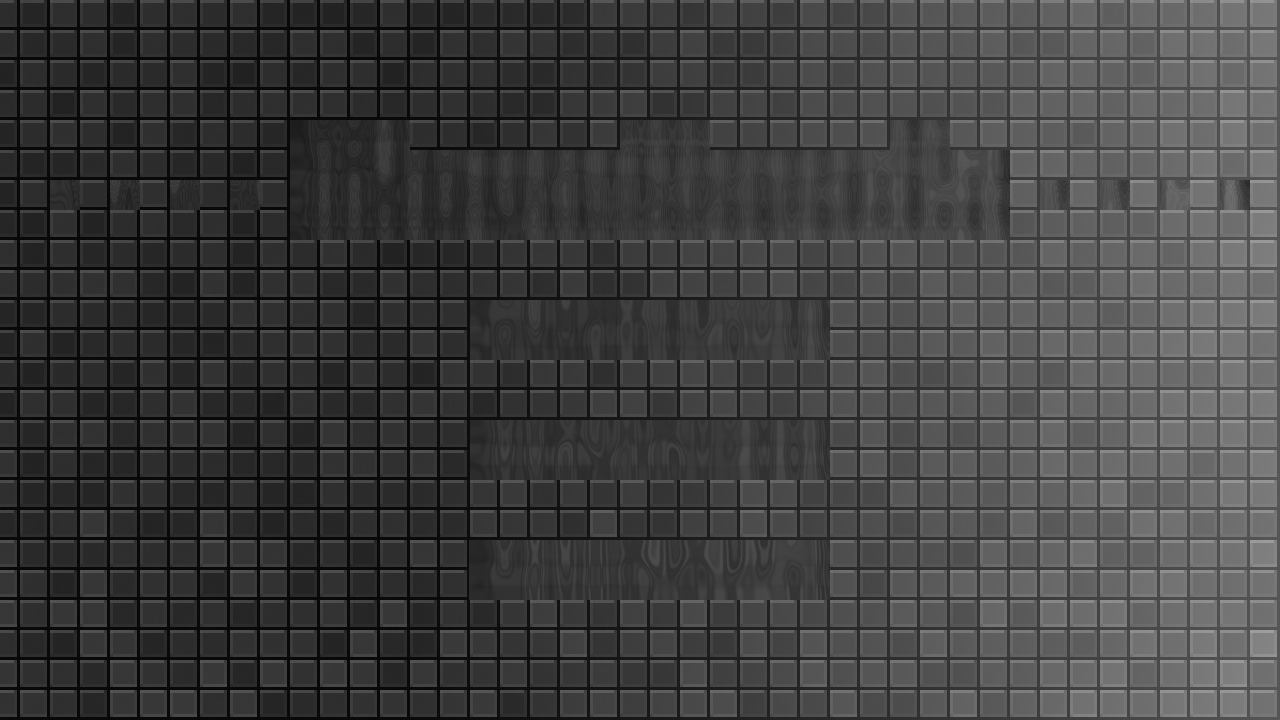
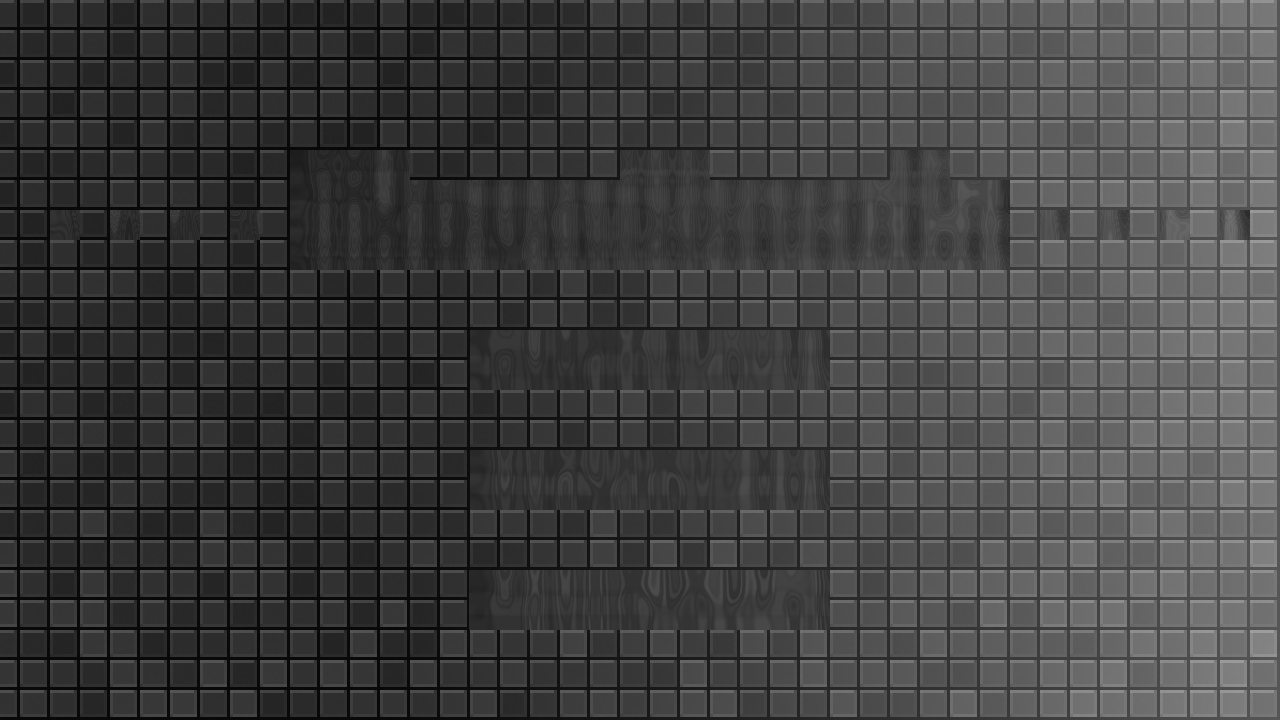
Scrolling text on level.
git-tfs-id: [https://tfs.codeplex.com:443/tfs/TFS15]$/Atomix;C42060

diff --git a/Atomix/Game/Atomix/Screens/LevelScreen.cs b/Atomix/Game/Atomix/Screens/LevelScreen.cs
@@ -76,6 +76,22 @@ namespace Mach.Kinectomix.Screens
 
         private bool _isLevelFinished = false;
 
+
+        Texture2D bch;
+
+        Viewport defaultViewport;
+        Viewport leftViewport;
+        SpriteFont font;
+
+        float _scrollDifferenceX = 0;
+        bool toRight = true;
+        bool dokola = true;
+        TimeSpan delay = TimeSpan.FromSeconds(1);
+        DateTime whenContinue;
+
+
+
+
         public LevelScreen(Level currentLevel, SpriteBatch spriteBatch)
         {
             _swipeGestures = new SwipeRecognizer();
@@ -152,10 +168,28 @@ namespace Mach.Kinectomix.Screens
         /// </summary>
         protected override void LoadContent()
         {
+            defaultViewport = ScreenManager.GraphicsDevice.Viewport;
+
+            font = ScreenManager.Content.Load<SpriteFont>("Fonts/LevelName");
+            bch = ScreenManager.Content.Load<Texture2D>("background");
+
+            defaultViewport = ScreenManager.GraphicsDevice.Viewport;
+            leftViewport = defaultViewport;
+            leftViewport.Width = _levelNameWidth;
+            leftViewport.Height = 60;
+            leftViewport.X = 50;
+            leftViewport.Y = 30;
+
+            _levelNameViewPort = ScreenManager.GraphicsDevice.Viewport;
+            _levelNameViewPort.Width = _levelNameWidth;
+            _levelNameViewPort.Height = 60;
+            _levelNameViewPort.Y = 30;
+            _levelNameViewPort.X = 50;
+
             if (_content == null)
                 _content = new ContentManager(ScreenManager.Game.Services, "Content");
 
-            _backgroundTexture = _content.Load<Texture2D>("Backgrounds/Level");
+            _backgroundTexture = _content.Load<Texture2D>("Backgrounds/LevelShort");
 
             int maximalWidth;
             int maximalHeight;
@@ -163,8 +197,8 @@ namespace Mach.Kinectomix.Screens
 
             // Board
             scale = 1;
-            maximalWidth = 810;
-            maximalHeight = 570;
+            maximalWidth = 750;
+            maximalHeight = 660;
             int boardWidth = _level.Board.ColumnsCount * TileHeight;
             int boardHeight = _level.Board.RowsCount * TileHeight;
 
@@ -190,7 +224,7 @@ namespace Mach.Kinectomix.Screens
             startX = 440 + 30 * (startX / 30);
 
             int startY = maximalHeight / 2 - boardHeight / 2;
-            startY = 120 + 30 * (startY / 30);
+            startY = 30 + 30 * (startY / 30);
 
             boardPosition = new Vector2(startX, startY);
 
@@ -747,22 +781,79 @@ namespace Mach.Kinectomix.Screens
         Vector3 startHandPositionReal;
         Vector3 lastHandPositionReal;
         double lastDiff;
+        private int _levelNameWidth = 360;
+        private Viewport _levelNameViewPort;
+        private Viewport _defaultViewport;
 
         public override void Draw(GameTime gameTime)
         {
             _spriteBatch.Begin();
-
             _spriteBatch.Draw(_backgroundTexture, new Rectangle(0, 0, ScreenManager.Game.GraphicsDevice.Viewport.Bounds.Width, ScreenManager.Game.GraphicsDevice.Viewport.Bounds.Height), Color.White);
+            _spriteBatch.End();
 
+            _spriteBatch.Begin();
+
+            _spriteBatch.GraphicsDevice.Viewport = leftViewport;
 
             string levelName = string.IsNullOrEmpty(_level.Name) == false ? _level.Name : Resources.LevelScreenResources.DefaultLevelName;
+            Vector2 levelNameSize = font.MeasureString(levelName);
 
-            _spriteBatch.DrawStringWithShadow(_levelFont, levelName, new Vector2(55, 40), KinectomixGame.BrickColor);
+            if (levelNameSize.X > ScreenManager.GraphicsDevice.Viewport.Width)
+            {
+                if (dokola)
+                {
+                    if (levelNameSize.X + _scrollDifferenceX > 0)
+                    {
+                        _scrollDifferenceX -= (float)(gameTime.ElapsedGameTime.TotalSeconds * 40);
+                    }
+                    else
+                    {
+                        _scrollDifferenceX = ScreenManager.GraphicsDevice.Viewport.Width;
+                    }
+                }
+                else
+                {
+                    // cik cak
+                    if (whenContinue < DateTime.Now)
+                    {
+                        if (toRight)
+                        {
+                            // scroll
+                            if (levelNameSize.X + _scrollDifferenceX > ScreenManager.GraphicsDevice.Viewport.Width)
+                            {
+                                _scrollDifferenceX -= (float)(gameTime.ElapsedGameTime.TotalSeconds * 40);
+                            }
+                            else
+                            {
+                                toRight = false;
+                                _scrollDifferenceX += (float)(gameTime.ElapsedGameTime.TotalSeconds * 40);
+                            }
+                        }
 
+                        if (!toRight)
+                        {
+                            if (_scrollDifferenceX < 0)
+                            {
+                                _scrollDifferenceX += (float)(gameTime.ElapsedGameTime.TotalSeconds * 40);
+                            }
+                            else
+                            {
+                                toRight = true;
+                                whenContinue = DateTime.Now + delay;
+                            }
+                        }
+                    }
+                }
+            }
+
+            _spriteBatch.DrawStringWithShadow(font, levelName, new Vector2(_scrollDifferenceX, 5), KinectomixGame.BrickColor);
+            _spriteBatch.End();
+            _spriteBatch.GraphicsDevice.Viewport = defaultViewport;
+
+            _spriteBatch.Begin();
+            
             DrawBoard(_spriteBatch, _level.Board, true);
             DrawBoard(_spriteBatch, _level.Molecule);
-
-            //_spriteBatch.DrawStringWithShadow(_normalFont, "Current", new Vector2(21 + 105, 85), Color.Gray);
 
             string text = Resources.LevelScreenResources.Moves;
             var scoreSize = _normalFont.MeasureString(text);

diff --git a/Library/Mach.Xna.Kinect/Components/VisualKinectManager.cs b/Library/Mach.Xna.Kinect/Components/VisualKinectManager.cs
@@ -25,13 +25,13 @@ namespace Mach.Xna.Kinect.Components
         private bool _showConnectedKinectIcon;
         private bool _drawConnectKinectAlert;
         private Vector2 _textPosition;
-        private Vector2 _backgroundPosition;
         private string _description;
         private bool _drawIcon;
         private short _ticks;
         private KinectManager _manager;
         private ContentManager _content;
         private Color _foreground;
+        private Vector2 _renderPosition;
 
         /// <summary>
         /// Gets or sets a whether connect kinect prompt will be rendered.
@@ -65,6 +65,17 @@ namespace Mach.Xna.Kinect.Components
         {
             get { return _foreground; }
             set { _foreground = value; }
+        }
+        /// <summary>
+        /// Gets or sets the position where rendering of this component will start.
+        /// </summary>
+        /// <value>
+        /// The position where rendering of this component will start.
+        /// </value>
+        public Vector2 RenderPosition
+        {
+            get { return _renderPosition; }
+            set { _renderPosition = value; }
         }
         /// <summary>
         /// Gets or sets whether will be shown icon if Kinect sensor is connected.
@@ -169,6 +180,7 @@ namespace Mach.Xna.Kinect.Components
             _connectedIconColor = Color.Green;
             _connectedIconScale = 0.2f;
             _foreground = Color.Black;
+            _renderPosition = Vector2.Zero;
 
             _showConnectKinectPrompt = true;
             _showConnectedKinectIcon = true;
@@ -200,10 +212,12 @@ namespace Mach.Xna.Kinect.Components
         }
 
         /// <summary>
-        /// Creates new instance of <see cref="VisualKinectManager"/>.
+        /// Creates new instance of <see cref="VisualKinectManager" />.
         /// </summary>
         /// <param name="game">Game containing this component.</param>
         /// <param name="content">ContentManager containing required assets.</param>
+        /// <param name="startColorStream">If set to <c>true</c> color stream will be started.</param>
+        /// <param name="startDepthStream">If set to <c>true</c> depth stream will be started.</param>
         public VisualKinectManager(Game game, ContentManager content, bool startColorStream, bool startDepthStream)
             : this(game)
         {
@@ -246,25 +260,23 @@ namespace Mach.Xna.Kinect.Components
 
             if (_showConnectKinectPrompt == true || (_manager.LastStatus != KinectStatus.Undefined && _manager.LastStatus != KinectStatus.Disconnected))
             {
-                // Background
+                int width = 200;
                 if (_backgroundTexture != null)
                 {
-                    _backgroundPosition = new Vector2();
-                    _backgroundPosition.X = Game.GraphicsDevice.Viewport.Width / 2 - _backgroundTexture.Width / 2;
-                    _backgroundPosition.Y = 0;
+                    width = _backgroundTexture.Width;
                 }
 
                 // Icon
                 _iconPosition = new Vector2();
-                _iconPosition.X = Game.GraphicsDevice.Viewport.Width / 2 - _iconTexture.Width * _iconScale / 2;
-                _iconPosition.Y = 20;
+                _iconPosition.X = _renderPosition.X + width / 2 - (_iconTexture.Width * _iconScale) / 2;
+                _iconPosition.Y = _renderPosition.Y + 20;
 
                 // Text
                 _description = _manager.LastStatus == KinectStatus.Undefined ? Localization.VisualKinectManagerResources.PleaseConnectSensor : _manager.GetStatusDescription(_manager.LastStatus);
                 Vector2 textSize = _font.MeasureString(_description);
                 _textPosition = new Vector2();
-                _textPosition.X = Game.GraphicsDevice.Viewport.Width / 2 - textSize.X / 2;
-                _textPosition.Y = _iconPosition.Y + _iconTexture.Height * _iconScale + 10;
+                _textPosition.X = _renderPosition.X + width / 2 - textSize.X / 2;
+                _textPosition.Y = _renderPosition.Y + _iconPosition.Y + _iconTexture.Height * _iconScale + 10;
 
                 _drawConnectKinectAlert = true;
             }
@@ -297,7 +309,7 @@ namespace Mach.Xna.Kinect.Components
 
                     if (_backgroundTexture != null)
                     {
-                        _spriteBatch.Draw(_backgroundTexture, _backgroundPosition, Color.White);
+                        _spriteBatch.Draw(_backgroundTexture, _renderPosition, Color.White);
                     }
 
                     _spriteBatch.DrawString(_font, _description, _textPosition, _foreground);

diff --git a/Atomix/Game/Atomix/Screens/StartScreen.cs b/Atomix/Game/Atomix/Screens/StartScreen.cs
@@ -107,7 +107,7 @@ namespace Mach.Kinectomix.Screens
 
         public override void Update(GameTime gameTime)
         {
-            _startButton.Position = new Vector2(470, 300);
+            _startButton.Position = new Vector2(470, 330);
             _levelsButton.Position = new Vector2(_startButton.Position.X, _startButton.Position.Y + _startButton.ActualHeight + 60);
             _quitButton.Position = new Vector2(_levelsButton.Position.X, _levelsButton.Position.Y + _levelsButton.ActualHeight + 60);
 
@@ -133,7 +133,7 @@ namespace Mach.Kinectomix.Screens
 
             _spriteBatch.Begin();
             _spriteBatch.Draw(_backgroundTexture, new Rectangle(0, 0, ScreenManager.Game.GraphicsDevice.Viewport.Bounds.Width, ScreenManager.Game.GraphicsDevice.Viewport.Bounds.Height), Color.White);
-            _spriteBatch.DrawStringWithShadow(_splashFont, name, new Vector2(7 + ScreenManager.GraphicsDevice.Viewport.Bounds.Width / 2 - size.X / 2, ScreenManager.GraphicsDevice.Viewport.Bounds.Height / 2 - 245), KinectomixGame.BrickColor);
+            _spriteBatch.DrawStringWithShadow(_splashFont, name, new Vector2(7 + ScreenManager.GraphicsDevice.Viewport.Bounds.Width / 2 - size.X / 2, ScreenManager.GraphicsDevice.Viewport.Bounds.Height / 2 - 215), KinectomixGame.BrickColor);
             _spriteBatch.End();
 
             base.Draw(gameTime);

diff --git a/Atomix/Game/Atomix/KinectomixGame.cs b/Atomix/Game/Atomix/KinectomixGame.cs
@@ -184,14 +184,6 @@ namespace Mach.Kinectomix
             _videoStream.RenderingOffset = _kinectDebugOffset;
         }
 
-        private void ShowVideoWithSkeleton()
-        {
-        }
-
-        private void HideVideoWithSkeleton()
-        {
-        }
-
         /// <summary>
         /// LoadContent will be called once per game and is the place to load
         /// all of your content.
@@ -222,6 +214,11 @@ namespace Mach.Kinectomix
             }
             score.DefinitionHash = _state.DefinitionHash;
             _state.Highscore = score;
+
+            _visualKinectManager.Font = Content.Load<SpriteFont>("Fonts/Normal");
+            _visualKinectManager.Foreground = KinectomixGame.BrickColor;
+            _visualKinectManager.Background = Content.Load<Texture2D>("KinectPromptBackground");
+            _visualKinectManager.RenderPosition = new Vector2(320, 0);
 
             _gameScreenManager.Add(screen);
             _gameScreenManager.Activate(screen);

diff --git a/Library/Mach.Xna/Screen Management/ScreenManager.cs b/Library/Mach.Xna/Screen Management/ScreenManager.cs
@@ -47,6 +47,15 @@ namespace Mach.Xna.ScreenManagement
         }
 
         /// <summary>
+        /// Initializes a new instance of the <see cref="ScreenManager" /> class.
+        /// </summary>
+        /// <param name="game">Game containing this component.</param>
+        public ScreenManager(Game game)
+            : this(game, null)
+        {
+        }
+
+        /// <summary>
         /// Initializes a new instance of the <see cref="ScreenManager"/> class.
         /// </summary>
         /// <param name="game">Game containing this component.</param>
